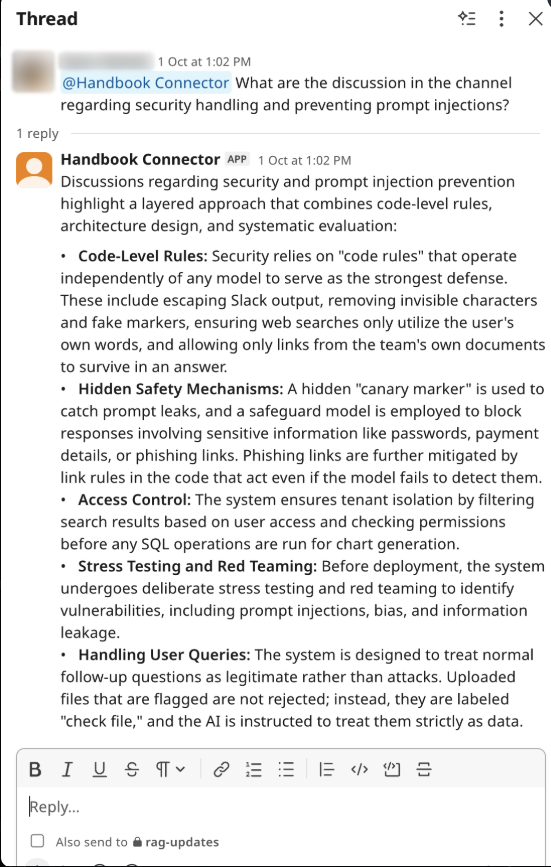
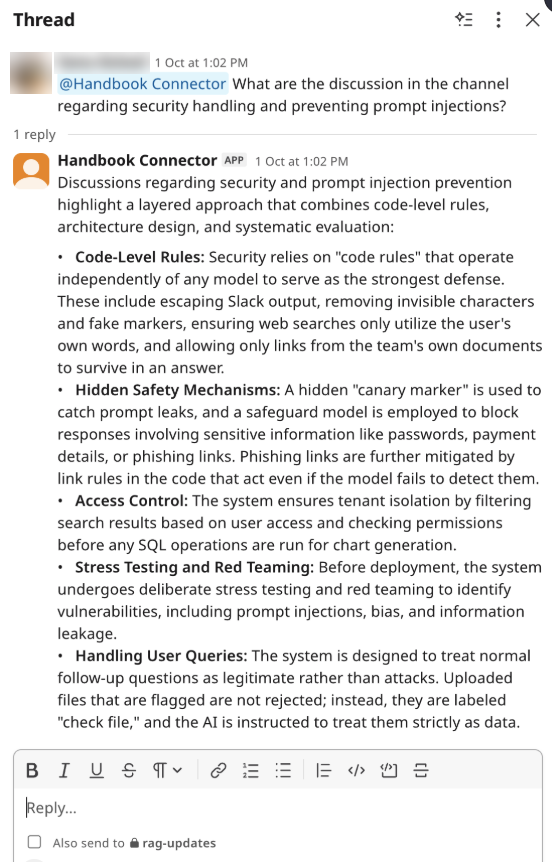
Add checklist for post-installation steps in Handbook documentation
- Introduced a new `CHECKLIST.md` file that outlines essential steps for users after installing Handbook, including installation verification, tool connections, user invitations, and ongoing maintenance.
- Updated `INSTALL.md` to reference the new checklist for preparing Handbook for company use.
- Modified `self-hosted-install-runbook.md` to guide admins through the checklist during setup.

These changes enhance user experience by providing a structured approach to ensure successful deployment and usage of Handbook.

diff --git a/deploy/selfhost/docs/CHECKLIST.md b/deploy/selfhost/docs/CHECKLIST.md
@@ -1,0 +1,106 @@
+# Checklist After Installing Handbook
+
+Handbook is installed and you can sign in as its admin. This checklist takes you from there to your colleagues using it. Work through it in order; most steps take a few minutes. If we installed Handbook for you, also complete section 8.
+
+## 1. Check the installation
+
+- [ ] `https://<your domain>` opens with a valid certificate, and you can sign in.
+- [ ] `docker compose ps` shows all five services running, and `api` as `healthy`.
+- [ ] A sign-in link reached your inbox, not spam. If it went to spam, ask your mail team to allow the sending address.
+- [ ] A daily backup is scheduled, and the backups are copied off the server ([BACKUP.md](BACKUP.md)).
+- [ ] A copy of `.env` is kept somewhere safe, apart from the backups.
+
+## 2. Connect your tools
+
+For each tool your company uses, follow [CONNECTORS.md](CONNECTORS.md), then connect it from **Admin › Connections**.
+
+- [ ] **Slack:** pick the channels Handbook reads. To use the bot in a channel, invite it there (`/invite @Handbook`). It can only read and answer in channels it has been added to.
+- [ ] **Google Drive:** pick the folder Handbook reads. Connect with an account that can open everything in that folder.
+- [ ] **Notion:** choose the pages to share with Handbook when Notion asks. Pages you do not share are not read.
+- [ ] **Linear:** pick the teams Handbook reads.
+- [ ] **GitHub:** install the app on the repositories Handbook may read.
+- [ ] Each tool's first sync has finished. The bell at the top shows any tool that failed or still needs setting up.
+
+Only connect what people should be able to ask about. Handbook follows each tool's own sharing where the tool reports it: a Drive file, a private Slack channel, a private Linear team or a private GitHub repository is answered only for people who can open it there. **Notion does not report who can see a page,** so everything you share with Handbook from Notion can be found by everyone in the company (or the space it is connected to).
+
+## 3. Try it yourself
+
+- [ ] Ask a few questions whose answers you know, one for each connected tool, and check that each answer cites the right document.
+- [ ] Ask something that is not in your tools, and check that Handbook says it could not find an answer rather than guessing.
+- [ ] In Slack, mention the bot in a channel it was invited to, and send it a direct message.
+
+## 4. Decide who sees what
+
+- [ ] **Company-wide or spaces.** Tools connected in **Admin › Connections** are for the whole company. For a team that needs its own private area (HR, leadership, a project), create a **space**: it has its own members and its own connected tools, and sees only its own content.
+- [ ] **Space owners.** Make one person the owner of each space. Owners invite members and connect the space's tools.
+
+## 5. Choose your settings
+
+- [ ] **AI model:** check the model Handbook answers with (**Admin › Model**). It uses your Claude key by default.
+- [ ] **Agent mode** (Handbook carrying out actions in your tools, such as posting a Slack message or creating an issue): off until you turn it on. Every tool action starts off, and each one you turn on is either read-only or needs the person to approve a card before it runs (**Admin › Actions**). Leave it off if you are not ready for it.
+
+## 6. Invite your colleagues
+
+There is no public sign-up page: people join when an admin invites them.
+
+- [ ] Invite colleagues from **Admin › Members**. Each gets an email with a sign-in link. Start with a small group if you prefer.
+- [ ] Make at least one more person an admin, so you are not the only one who can manage Handbook.
+- [ ] Ask people with access to private GitHub repositories to link their GitHub account from **Account**, so Handbook can answer about those repositories for them.
+- [ ] Tell people where Handbook is, and that they can also ask in Slack.
+
+## 7. Keep it running
+
+| How often | What |
+| --- | --- |
+| Weekly | Look at the bell. It shows tools that stopped syncing, and topics several people could not get answered, which point to documents that are missing or out of date. |
+| Each new version | Read the release notes and run `./upgrade.sh` ([UPGRADE.md](UPGRADE.md)). |
+| When someone leaves | Remove them in **Admin › Members**. Their access ends at once. |
+| Monthly | Check that recent backups exist and that the disk is not filling up (`df -h`). |
+
+## 8. If we installed Handbook for you: remove our access
+
+Once setup is finished, use this section to make sure we can no longer reach your server, your tools or your data. Skip it if your own team installed Handbook.
+
+If you keep us on a support plan, keep only the access that plan names, and remove everything else here.
+
+### 8.1 The server
+
+- [ ] Remove the SSH key(s) we used from `~/.ssh/authorized_keys` for every user we logged in as.
+- [ ] Delete any user account created for us on the server.
+- [ ] Remove any firewall or VPN rule opened for us, such as SSH from our IP address.
+- [ ] If Handbook runs in your cloud account (AWS, Google Cloud, Azure), delete the users, roles or access keys you gave us, and check your cloud's audit log for anything else created under them.
+
+### 8.2 Your tools
+
+During setup we may have been given admin rights to create Handbook's apps. In each tool you connected:
+
+- [ ] **Slack:** remove us from the workspace or downgrade us from admin, and remove us as a collaborator on the Handbook app (app settings, **Collaborators**).
+- [ ] **GitHub:** remove us from the organization, and from the Handbook GitHub App's managers if we were added.
+- [ ] **Google:** remove us from the Google Cloud project that holds Handbook's sign-in client (**IAM**), and from any Workspace admin role.
+- [ ] **Notion:** remove us from the workspace, or from the integration's owners.
+- [ ] **Linear:** remove us from the workspace, or downgrade us from admin.
+
+### 8.3 Handbook itself
+
+- [ ] On Handbook's admin page, remove any account we used, so only your people remain.
+
+### 8.4 Secrets we may have seen
+
+We do not keep copies of your `.env` or your keys. If your security policy says to change any secret someone outside your company has seen, change these. After editing `.env`, run `docker compose up -d`.
+
+| Secret | How to change it | What happens |
+| --- | --- | --- |
+| `AUTH_JWT_SECRET` | Set a new value: `openssl rand -hex 32` | Everyone is signed out and signs in again. Nothing else changes. |
+| Connector app secrets (`SLACK_CLIENT_SECRET`, `SLACK_SIGNING_SECRET`, `GITHUB_APP_PRIVATE_KEY`, `GITHUB_CLIENT_SECRET`, `GOOGLE_CLIENT_SECRET`, `NOTION_CLIENT_SECRET`, `LINEAR_CLIENT_SECRET`, `LINEAR_WEBHOOK_SECRET`) | Regenerate each in the tool's app settings and put the new value in `.env` | Connected tools keep working |
+| `LLM_API_KEY`, `EMBEDDING_API_KEY`, `CLOUDINARY_API_SECRET` (if set) | Create a new key with the provider, put it in `.env`, then delete the old key there | Nothing, once the new key is in place |
+| `EMAIL_SMTP_PASSWORD` | Change it on your mail server and in `.env` | Nothing |
+| `POSTGRES_PASSWORD` | Usually not needed: the database cannot be reached from outside the server. Ask us for the steps if your policy requires it. | |
+| `AUTH_ENCRYPTION_KEYS` | Usually not needed. Changing it means every tool has to be connected again in Handbook. | |
+
+If you entered the API keys and passwords yourself during setup, we never saw them, and only `AUTH_JWT_SECRET` and the connector app secrets apply.
+
+### 8.5 Confirm
+
+- [ ] Check the server's login history (`last`) and your cloud's audit log for any access from us after the date you removed it.
+- [ ] Keep the image registry token we gave you: Handbook needs it to download upgrades. It only lets you download our images, not reach anything of yours.
+- [ ] Tell us it is done, so we can close our record of the setup.

diff --git a/docs/self-hosted-install-runbook.md b/docs/self-hosted-install-runbook.md
@@ -33,8 +33,9 @@ Share the screen with each tool's admin and follow `CONNECTORS.md`. The apps are
 - Ask a question that each connected tool should answer, and check the answer cites it.
 - Run `./backup.sh` once, and set up the daily backup and the off-server copy (`BACKUP.md`) with their IT.
 - Show their IT `INSTALL.md` ("Everyday commands") and `UPGRADE.md`.
+- Go through `CHECKLIST.md` with the admin: sections 1–3 together, and the rest (spaces, settings, invites) is theirs to finish.
 - Add the admin's email to our release email list.
 
 ## 5. Hand back access
 
-Remove our SSH key and any accounts we were given, and tell the company it is done. Send them `REMOVING-OUR-ACCESS.md` (in the package's `docs/`) so they can check every item themselves; it also lists which secrets to change if their policy asks for it. If they keep us on a support plan for upgrades, keep only the access the plan names, and write down what it is.
+Remove our SSH key and any accounts we were given, and tell the company it is done. Point them to section 8 of `CHECKLIST.md` (in the package's `docs/`) so they can check every item themselves; it also lists which secrets to change if their policy asks for it. If they keep us on a support plan for upgrades, keep only the access the plan names, and write down what it is.

diff --git a/deploy/selfhost/docs/INSTALL.md b/deploy/selfhost/docs/INSTALL.md
@@ -104,11 +104,9 @@ Handbook checks its settings when it starts and stops with a message when someth
 
 There is no public sign-up page: your Handbook holds only your company. Colleagues join when an admin invites them from the admin page.
 
-## 5. Connect your tools
+## 5. Get Handbook ready for your company
 
-Follow [CONNECTORS.md](CONNECTORS.md) for each tool you use. Then, in Handbook, choose what each tool syncs and invite your colleagues.
-
-If we installed Handbook for you, go through [REMOVING-OUR-ACCESS.md](REMOVING-OUR-ACCESS.md) once setup is finished.
+Follow [CHECKLIST.md](CHECKLIST.md): a checklist for connecting your tools ([CONNECTORS.md](CONNECTORS.md)), checking the answers, deciding who sees what, and inviting your colleagues. If we installed Handbook for you, its last section removes our access.
 
 ## Everyday commands
 
